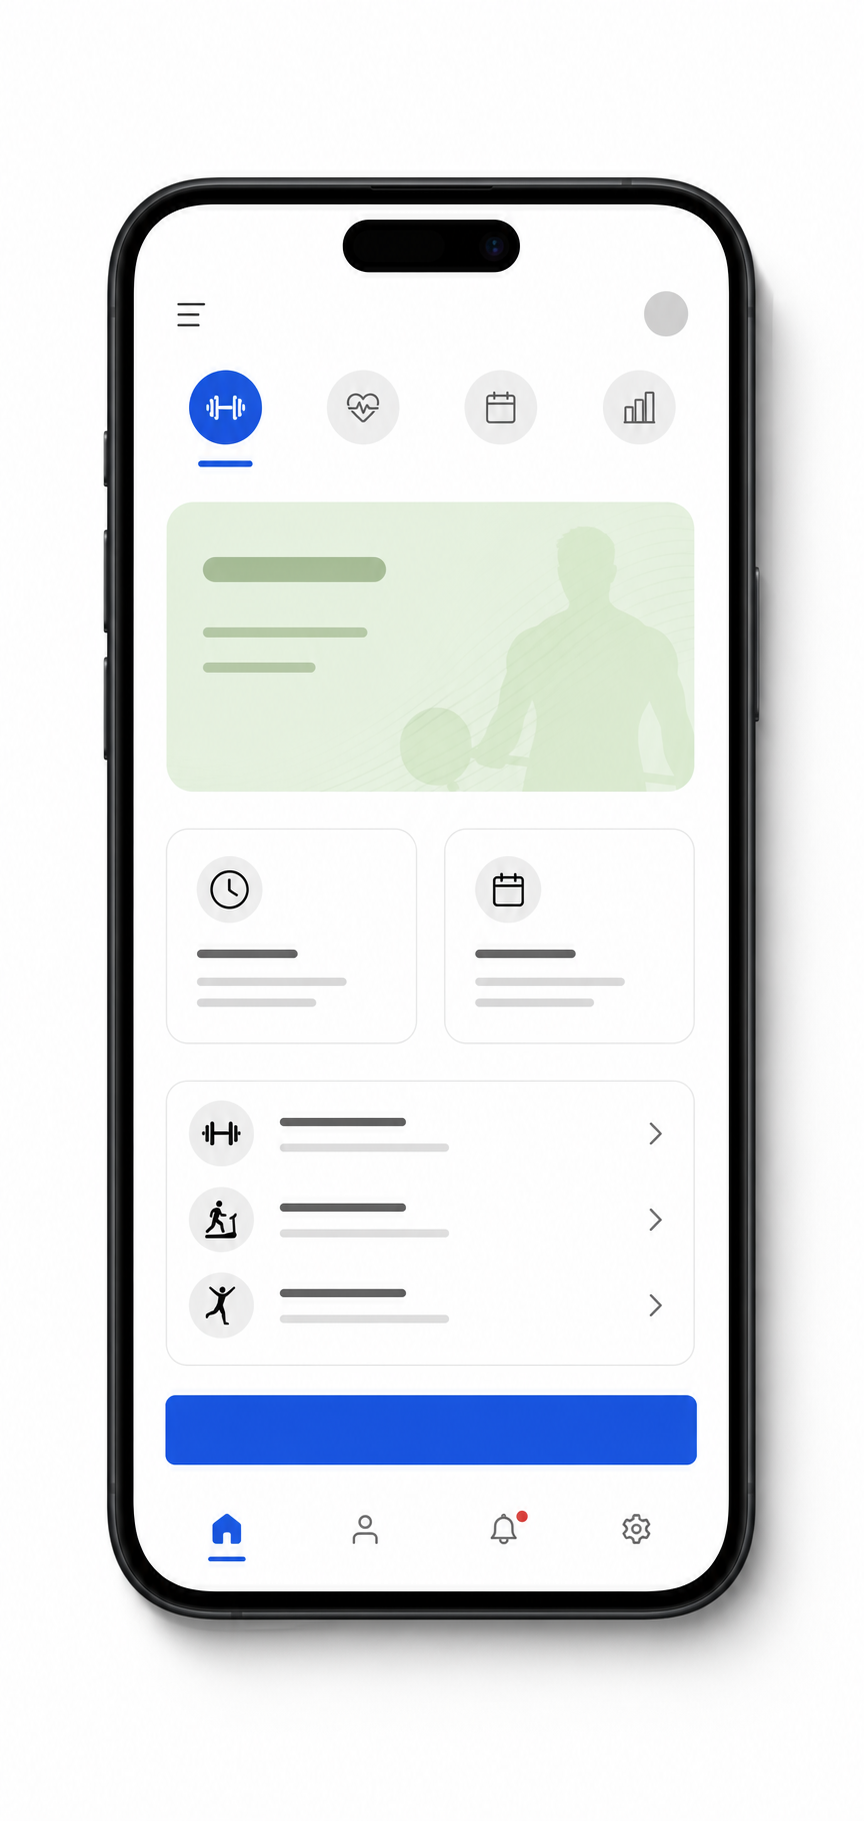
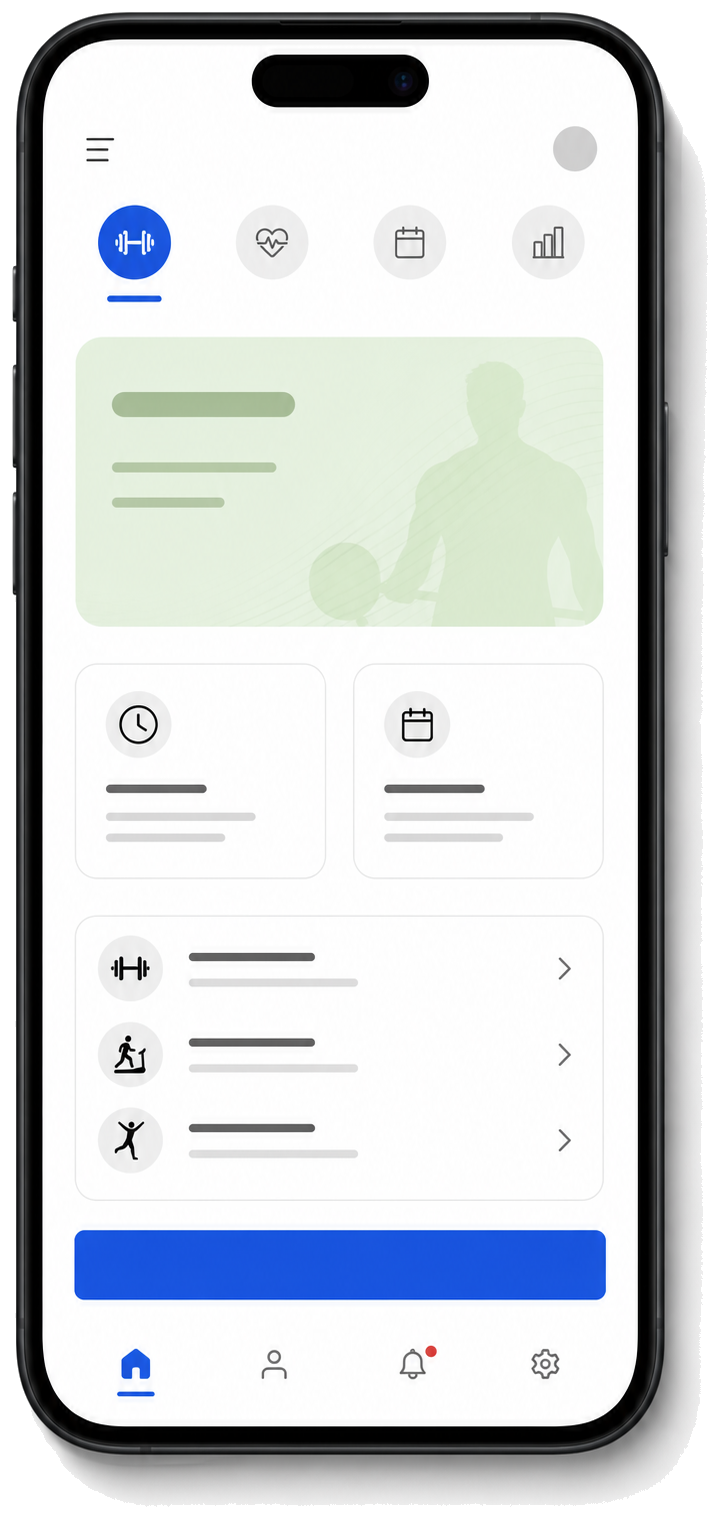
Refine Atena mobile application visuals

diff --git a/public/theme.css b/public/theme.css
@@ -41,6 +41,15 @@
 @media(max-width:1100px){.atena-app__layout{grid-template-columns:1fr;gap:26px}.atena-app__copy{max-width:600px}.atena-app h2{max-width:560px}.atena-app__screens{max-width:850px;margin:0 auto}}
 @media(max-width:620px){.atena-app{padding:54px 0 60px}.atena-app__screens{grid-template-columns:repeat(2,minmax(0,1fr));gap:8px 18px}.atena-app__screen img{max-height:380px}.atena-store-badge{min-width:132px}.atena-app__benefits{font-size:13px}}
 
+/* Oficjalne badge'e sklepów oraz jednakowa widoczna wysokość telefonów. */
+.atena-store-badge { display:block; min-width:0; min-height:0; padding:0; border-radius:0; background:transparent; }
+.atena-store-badge:hover { background:transparent; transform:translateY(-2px); }
+.atena-store-badge img { display:block; width:auto; height:46px; max-width:160px; }
+.atena-app__screen { display:flex; height:430px; align-items:flex-end; justify-content:center; }
+.atena-app__screen img { width:auto; height:420px; max-width:100%; max-height:none; object-fit:contain; transform-origin:center bottom; }
+@media(max-width:1100px){.atena-app__screen{height:400px}.atena-app__screen img{height:390px}}
+@media(max-width:620px){.atena-app__screen{height:350px}.atena-app__screen img{height:340px}.atena-store-badge img{height:42px}}
+
 /* Atena Fit typography: headings use the supplied brand face; all UI and body copy use Montserrat. */
 @font-face { font-family:'Atena Ethnocentric'; src:url('fonts/Ethnocentric-Regular.otf') format('opentype'); font-style:normal; font-weight:400; font-display:swap; }
 .front-theme--atena_fit { --atena-heading:'Atena Ethnocentric', Montserrat, Arial, sans-serif; --atena-body:Montserrat, Arial, sans-serif; font-family:var(--atena-body); }
